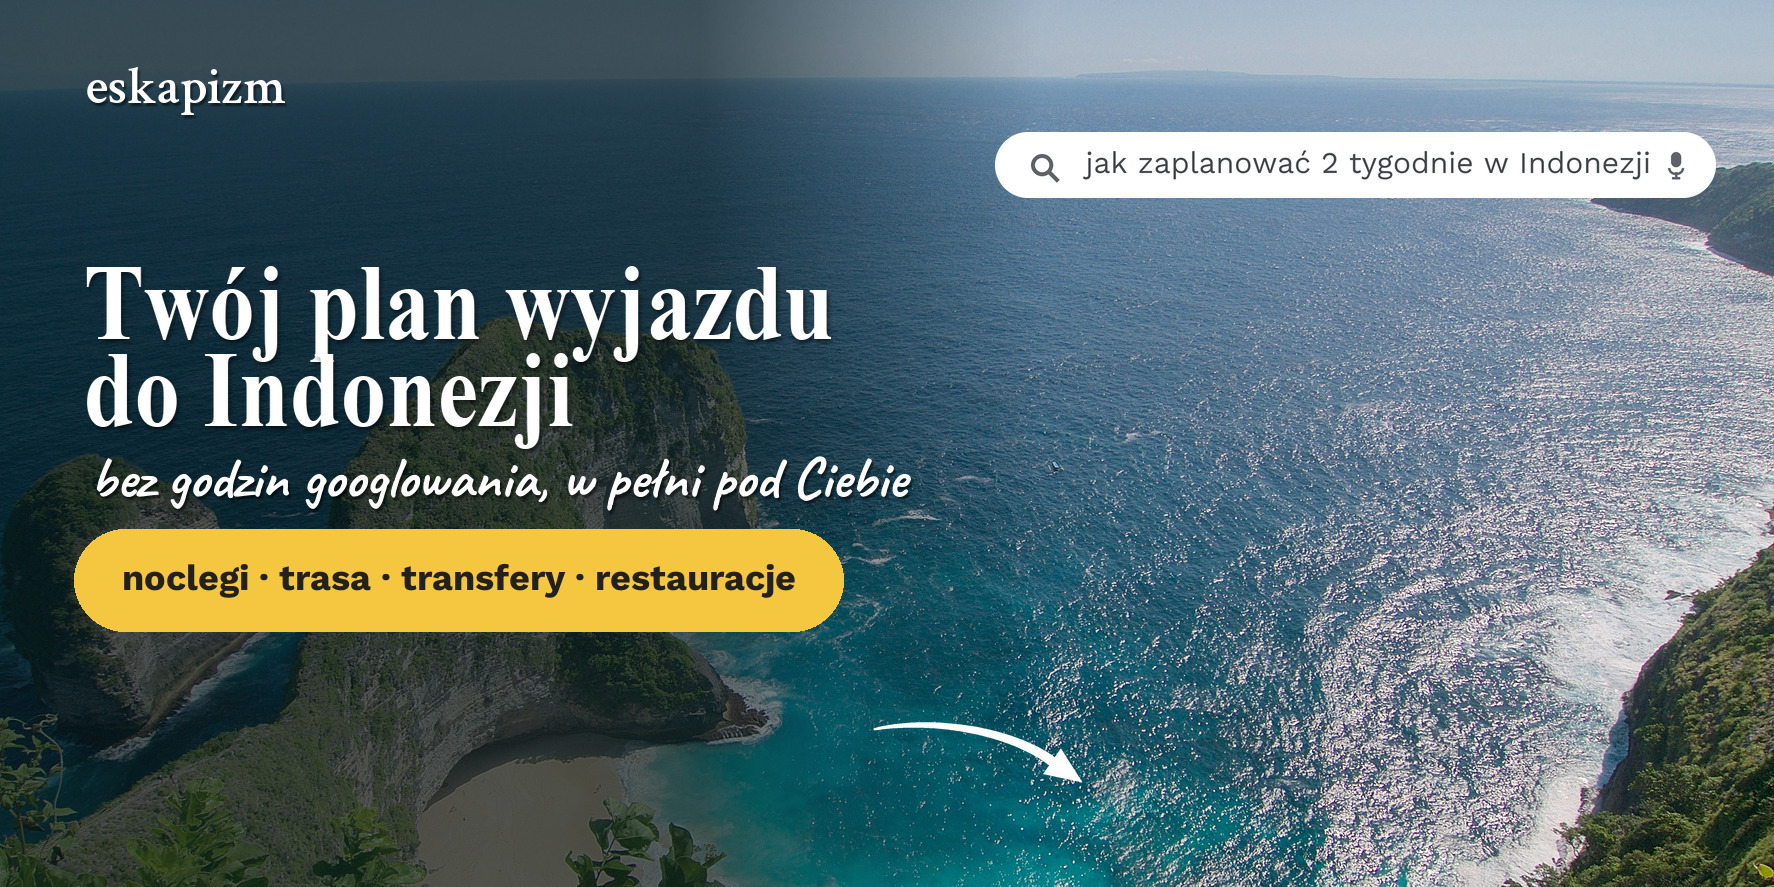
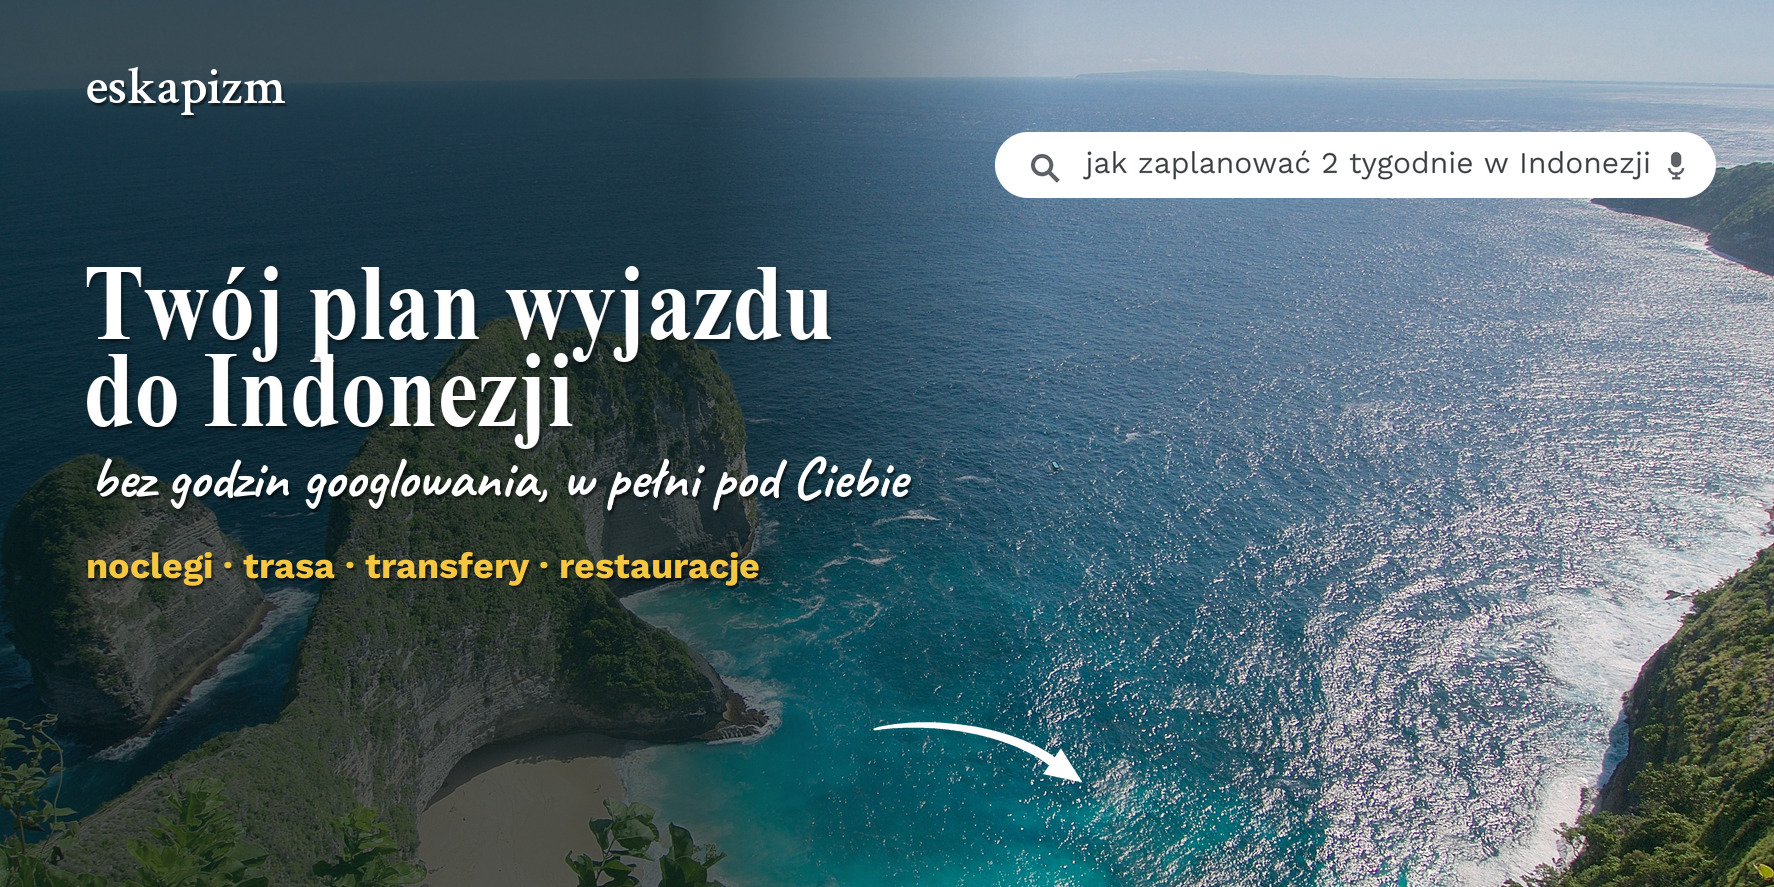
Drop the feature pill on desktop too, and scale up the mobile creative
Desktop now matches mobile: the feature list is plain brand-yellow text instead
of a yellow pill, left-aligned with the headline. That leaves the search bar and
the CTA as the only pill shapes on both layouts. Checked legibility of the yellow
over all three photos (bright Thai beach, Hoi An lanterns, Nusa Penida).

Mobile creative grows 1297 -> 1455px tall with more presence inside the frame:
photo band 600 -> 680px, margins 56 -> 44px so the content runs wider, and the
type scales up throughout (headline cap 104 -> 118, search 30 -> 33, script
52 -> 58, features 34 -> 37, CTA 40 -> 43). Gaps widen to match.

Changed region(s): [[0.031, 0.5784, 0.4961, 0.7306]]

diff --git a/Baner_Indonezja.html b/Baner_Indonezja.html
@@ -70,9 +70,9 @@
   .esk-bn__cta--d { display: none; }
   .esk-bn__cta--m {
     display: block;
-    left: 16.7593%;
-    top: 87.8180%;
-    width: 66.4815%;
+    left: 14.0741%;
+    top: 88.1100%;
+    width: 71.7593%;
     filter: drop-shadow(0 5px 12px rgba(0, 0, 0, 0.26));
     transition: transform 0.14s ease;
   }

diff --git a/Baner_Tajlandia.html b/Baner_Tajlandia.html
@@ -70,9 +70,9 @@
   .esk-bn__cta--d { display: none; }
   .esk-bn__cta--m {
     display: block;
-    left: 17.2222%;
-    top: 87.8180%;
-    width: 65.5556%;
+    left: 14.5370%;
+    top: 88.1100%;
+    width: 70.8333%;
     filter: drop-shadow(0 5px 12px rgba(0, 0, 0, 0.26));
     transition: transform 0.14s ease;
   }

diff --git a/Baner_Wietnam.html b/Baner_Wietnam.html
@@ -70,9 +70,9 @@
   .esk-bn__cta--d { display: none; }
   .esk-bn__cta--m {
     display: block;
-    left: 15.1852%;
-    top: 87.8180%;
-    width: 69.5370%;
+    left: 12.4074%;
+    top: 88.1100%;
+    width: 75.0926%;
     filter: drop-shadow(0 5px 12px rgba(0, 0, 0, 0.26));
     transition: transform 0.14s ease;
   }
